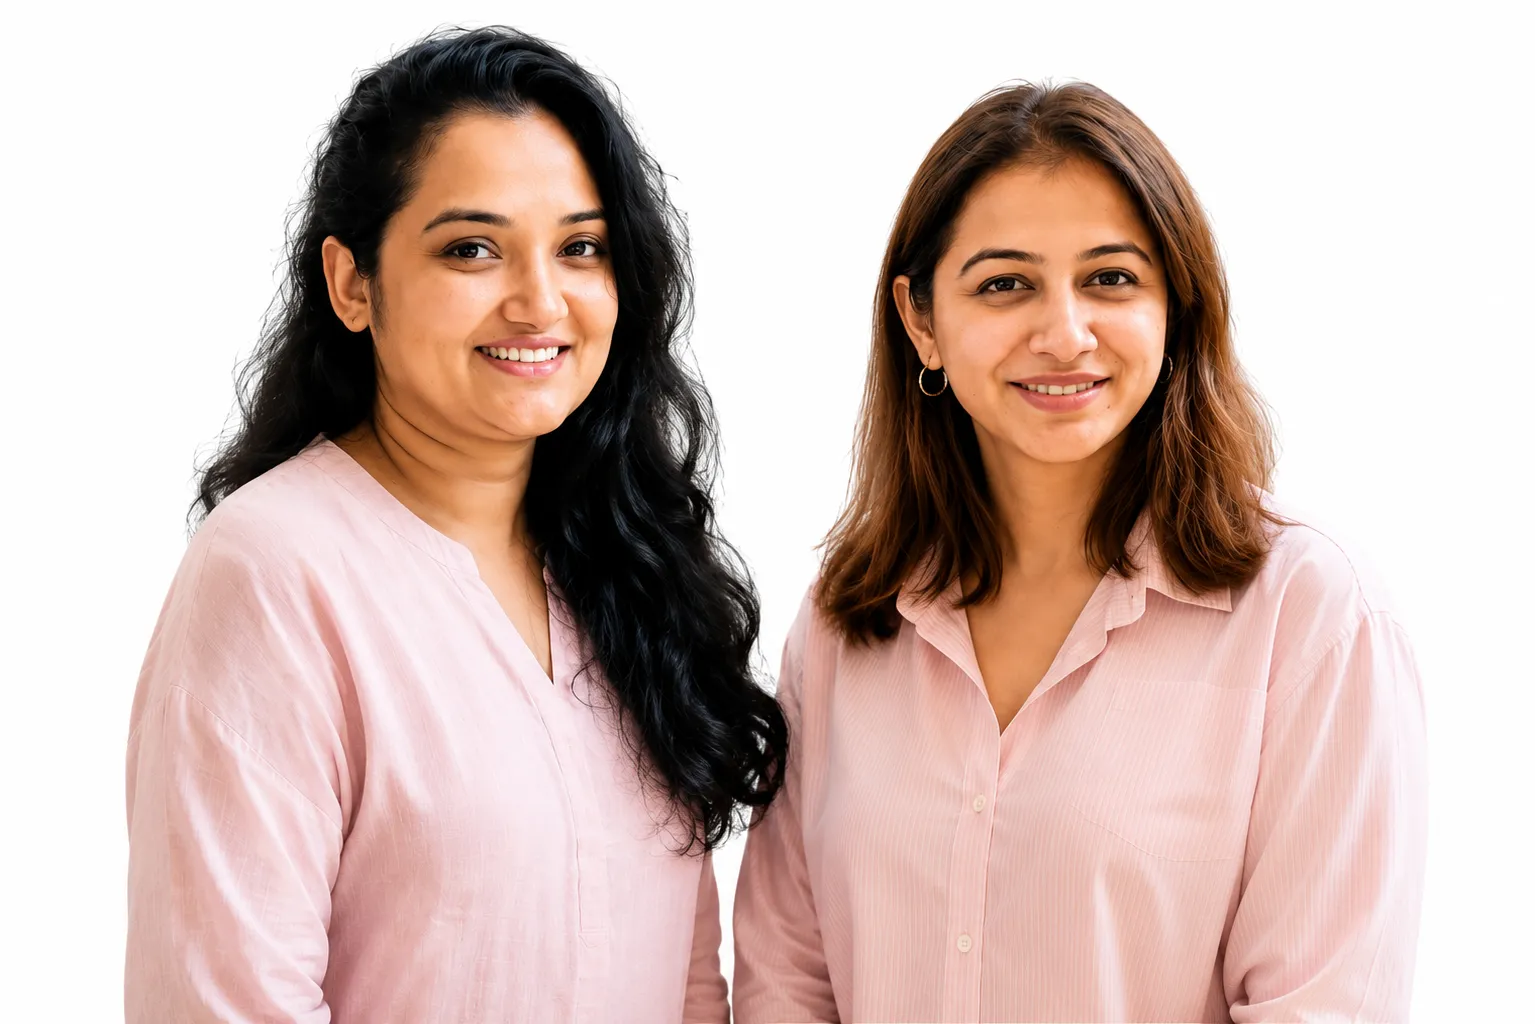
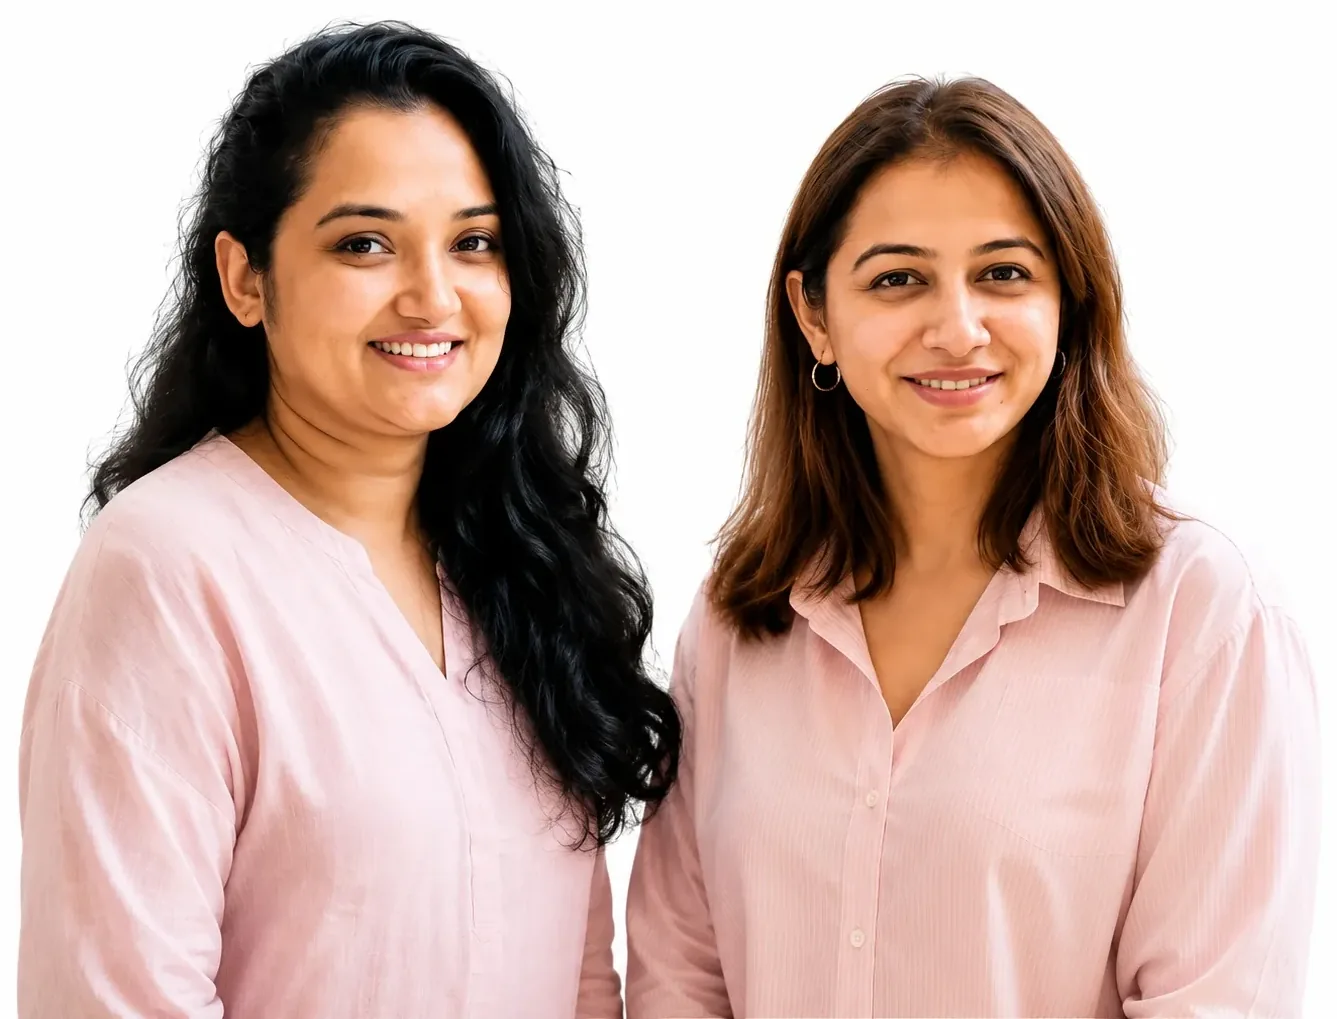
anu landing page fix

diff --git a/apps/landing/Anuva Wellness Landing.dc.html b/apps/landing/Anuva Wellness Landing.dc.html
@@ -24,14 +24,27 @@
   @keyframes floatSlow{0%,100%{transform:translateY(0)}50%{transform:translateY(-14px)}}
   @keyframes pulseGlow{0%,100%{opacity:.55}50%{opacity:.9}}
 
+  /* The hero photo is trimmed to its subjects (1337x1019), so fit="contain"
+     fills the column almost exactly while never cropping either woman. The
+     slot's frame carries a faint grey wash that the slim letterbox would
+     otherwise expose, so repaint it the white of the photo's backdrop. */
+  #hero-image::part(frame){background:#FFFFFF}
+
+  /* image-slot draws a dashed placeholder ring and hides it via
+     :host([data-filled]), but data-filled never lands on these slots even
+     though the photos load, so the ring ships as a visible dashed outline.
+     Both slots have an author src and are never empty, so drop it outright. */
+  #hero-image::part(ring),#meet-anuva-image::part(ring){display:none}
+
   /* Nav needs ~816px. Below 856px the last item was clipped inside an
      overflow-x:auto strip with the scrollbar hidden, so hand off to the
      hamburger at 900 instead of 760 (covers iPad Pro 11 portrait @834). */
   @media (max-width:900px){ .anuva-desktop-nav{display:none !important} .anuva-hamburger{display:flex !important} }
 
-  /* Hero row wraps at 920px (440 + 480 flex bases). The image column's only
-     child is absolutely positioned, so once wrapped it has no content height —
-     the override has to start at the wrap point, not at 900. */
+  /* The columns are flex-grow 42/58 on 0% bases, so they always fill the row
+     and it never wraps on its own - this query is what stacks it. The image
+     column's only child is absolutely positioned, so once stacked it has no
+     content height and needs the explicit height below. */
   @media (max-width:920px){
     .anuva-hero-row{min-height:auto !important}
     .anuva-hero-image-col{flex-basis:100% !important;height:320px !important}
@@ -98,7 +111,7 @@
         <a href="#pricing" style="color:#5B4E68" style-hover="color:#7C5FC0">Pricing</a>
         <a href="#faqs" style="color:#5B4E68" style-hover="color:#7C5FC0">FAQs</a>
       </nav>
-      <a href="#pricing" class="anuva-header-cta" style="flex:none;background:linear-gradient(135deg,#9B6FD6,#E39CC0);color:#fff;padding:11px 20px;border-radius:100px;font-weight:600;font-size:13.5px;white-space:nowrap;box-shadow:0 6px 16px rgba(155,111,214,0.35);transition:transform .2s,box-shadow .2s" style-hover="transform:translateY(-2px);box-shadow:0 10px 22px rgba(155,111,214,0.45)">Start Free Trial</a>
+      <a href="https://app.anuvawellness.com" class="anuva-header-cta" style="flex:none;background:linear-gradient(135deg,#9B6FD6,#E39CC0);color:#fff;padding:11px 20px;border-radius:100px;font-weight:600;font-size:13.5px;white-space:nowrap;box-shadow:0 6px 16px rgba(155,111,214,0.35);transition:transform .2s,box-shadow .2s" style-hover="transform:translateY(-2px);box-shadow:0 10px 22px rgba(155,111,214,0.45)">Start Free Trial</a>
       <button class="anuva-hamburger" onClick="{{ toggleMenu }}" aria-label="Navigation menu" aria-controls="anuva-mobile-nav" aria-expanded="{{ menuOpen }}" style="display:none;flex:none;background:none;border:none;font-size:24px;color:#5E3FA3;cursor:pointer;padding:2px 4px">☰</button>
     </div>
     <sc-if value="{{ menuOpen }}">
@@ -114,21 +127,21 @@
 
   <!-- ===== HERO ===== -->
   <section id="hero" style="position:relative;background:radial-gradient(120% 100% at 20% 0%,#F5E4F0 0%,#F9EEF7 35%,#FFFBFC 70%)">
-    <div class="anuva-hero-row" style="max-width:1440px;margin:0 auto;display:flex;flex-wrap:wrap-reverse;align-items:stretch;gap:0;min-height:640px">
-      <div style="flex: 1 1 440px; min-width: 280px; display: flex; flex-direction: column; justify-content: center; padding: 64px clamp(20px,5vw,80px); background-color: #FFFFFF">
+    <div class="anuva-hero-row" style="width:100%;margin:0;display:flex;flex-wrap:wrap-reverse;align-items:stretch;gap:0;min-height:640px">
+      <div style="flex: 42 1 0%; min-width: 280px; display: flex; flex-direction: column; justify-content: center; padding: 64px clamp(20px,3.5vw,64px); background-color: #FFFFFF">
         
         <h1 style="font-family:'Playfair Display',serif;font-weight:600;font-size:clamp(34px,5vw,58px);line-height:1.1;margin:0 0 22px;color:#2D2438"><span style="font-size:clamp(26px,4.2vw,50px)">Your Personalized</span> <span style="color: {{ accentColor }}; font-style: italic; font-family: Times New Roman; font-size:clamp(36.5px,5.2vw,60.5px)">Perimenopause Wellness</span> <span style="color: {{ accentColor }}; font-style: italic; font-family: Times New Roman; font-size:clamp(36.5px,5.2vw,60.5px)">Journey</span> <span style="font-size:clamp(26px,4.2vw,50px)">Starts Here</span></h1>
         <p style="font-size:clamp(16px,2vw,19px);line-height:1.6;color:#6B5D7A;max-width:520px;margin:0 0 32px">Expert care, personalized plans, and daily support to help you feel like yourself again.</p>
         <div style="display:flex;flex-wrap:wrap;gap:16px;align-items:center;margin-bottom:28px">
-          <a href="#pricing" class="anuva-hero-cta" style="background:linear-gradient(135deg,#9B6FD6,#E39CC0);color:#fff;padding:17px 34px;border-radius:100px;font-weight:700;font-size:16px;box-shadow:0 12px 28px rgba(155,111,214,0.4);transition:transform .2s,box-shadow .2s;display:inline-block" style-hover="transform:translateY(-3px) scale(1.02);box-shadow:0 18px 36px rgba(155,111,214,0.5)">Start Your 14-Day Free Trial →</a>
+          <a href="https://app.anuvawellness.com" class="anuva-hero-cta" style="background:linear-gradient(135deg,#9B6FD6,#E39CC0);color:#fff;padding:17px 34px;border-radius:100px;font-weight:700;font-size:16px;box-shadow:0 12px 28px rgba(155,111,214,0.4);transition:transform .2s,box-shadow .2s;display:inline-block" style-hover="transform:translateY(-3px) scale(1.02);box-shadow:0 18px 36px rgba(155,111,214,0.5)">Start Your 14-Day Free Trial →</a>
         </div>
         <div style="display:flex;align-items:center;gap:10px;font-size:14px;color:#6B5D7A;font-weight:500">
           <span role="img" aria-label="Rated 5 out of 5" style="color:#E3A6C4;font-size:16px">★★★★★</span>
           <span>Trusted by 2,000+ women · Science-backed</span>
         </div>
       </div>
-      <div class="anuva-hero-image-col" style="flex:1 1 480px;min-width:300px;position:relative">
-        <image-slot id="hero-image" style="position: absolute; inset: 0; width: 100%; height: 100%; background-color: #FFFFFF" fit="cover" placeholder="Drop a photo of a woman feeling confident and calm" src="uploads/hero-woman.webp"></image-slot>
+      <div class="anuva-hero-image-col" style="flex:58 1 0%;min-width:300px;position:relative">
+        <image-slot id="hero-image" style="position: absolute; inset: 0; width: 100%; height: 100%; background-color: #FFFFFF" shape="rounded" radius="0" fit="contain" placeholder="Drop a photo of a woman feeling confident and calm" src="uploads/hero-woman.webp"></image-slot>
       </div>
     </div>
   </section>
@@ -362,7 +375,7 @@
           <div style="display:flex;gap:10px;align-items:flex-start;font-size:14.5px;color:#4A3E56"><span aria-hidden="true" style="color:#9B6FD6;font-weight:700">✓</span>Expert-backed care plan &amp; AI support</div>
           <div style="display:flex;gap:10px;align-items:flex-start;font-size:14.5px;color:#4A3E56"><span aria-hidden="true" style="color:#9B6FD6;font-weight:700">✓</span>3 FREE consultations (Worth over ₹5,000)</div>
         </div>
-        <a href="#" style="display:block;background:linear-gradient(135deg,#9B6FD6,#E39CC0);color:#fff;padding:17px;border-radius:100px;font-weight:700;font-size:16px;box-shadow:0 12px 28px rgba(155,111,214,0.4);transition:transform .2s,box-shadow .2s" style-hover="transform:translateY(-3px) scale(1.02);box-shadow:0 18px 36px rgba(155,111,214,0.5)">Start Your 14-Day Free Trial</a>
+        <a href="https://app.anuvawellness.com" style="display:block;background:linear-gradient(135deg,#9B6FD6,#E39CC0);color:#fff;padding:17px;border-radius:100px;font-weight:700;font-size:16px;box-shadow:0 12px 28px rgba(155,111,214,0.4);transition:transform .2s,box-shadow .2s" style-hover="transform:translateY(-3px) scale(1.02);box-shadow:0 18px 36px rgba(155,111,214,0.5)">Start Your 14-Day Free Trial</a>
       </div>
     </div>
   </section>
@@ -395,7 +408,7 @@
     <div style="max-width:640px;margin:0 auto">
       <h2 style="font-family:'Playfair Display',serif;font-weight:600;font-size:clamp(28px,5vw,46px);line-height:1.15;margin:0 0 20px;color:#2D2438">Ready to Take Control of Your Perimenopause Journey?</h2>
       <p style="font-size:17px;color:#5B4E68;margin:0 0 36px">Join thousands of women who've found clarity, relief, and confidence with ANUVA WELLNESS.</p>
-      <a href="#pricing" style="display:inline-block;background:#2D2438;color:#fff;padding:19px 40px;border-radius:100px;font-weight:700;font-size:17px;box-shadow:0 16px 36px rgba(45,36,56,0.25);transition:transform .2s,box-shadow .2s" style-hover="transform:translateY(-3px) scale(1.02);box-shadow:0 22px 44px rgba(45,36,56,0.35)">Start Your 14-Day Free Trial →</a>
+      <a href="https://app.anuvawellness.com" style="display:inline-block;background:#2D2438;color:#fff;padding:19px 40px;border-radius:100px;font-weight:700;font-size:17px;box-shadow:0 16px 36px rgba(45,36,56,0.25);transition:transform .2s,box-shadow .2s" style-hover="transform:translateY(-3px) scale(1.02);box-shadow:0 22px 44px rgba(45,36,56,0.35)">Start Your 14-Day Free Trial →</a>
     </div>
   </section>
 

diff --git a/apps/pwa/src/features/core/AnuChatRoute.tsx b/apps/pwa/src/features/core/AnuChatRoute.tsx
@@ -3,6 +3,7 @@ import { useNavigate, useSearchParams } from 'react-router-dom';
 import type { AnuChatHistoryResponse, AnuChatResponse } from '@anuva/shared';
 import { apiFetch } from '../../shared/lib/api';
 import { BottomNav } from './components/BottomNav';
+import { remainingDelay, replyDelay, wait } from './chatPacing';
 
 type ChatMessage = {
   from: 'anu' | 'user';
@@ -72,17 +73,28 @@ export default function AnuChatRoute() {
       // Clear immediately: the old chips belong to the previous answer.
       setSuggestions([]);
 
+      // Paced, not padded — see `chatPacing`. Measured from the moment she
+      // sends rather than from the response, so a slow answer is never made
+      // slower.
+      const startedAt = Date.now();
+      const delay = replyDelay();
+
       try {
         const data = await apiFetch<AnuChatResponse>('/api/anu/chat', {
           method: 'POST',
           body: JSON.stringify({ message: trimmed }),
         });
+
+        await wait(remainingDelay(delay, Date.now() - startedAt));
+
         setMessages((prev) => [
           ...prev,
           { from: 'anu', text: data.reply, isEscalation: data.source === 'red_flag' },
         ]);
         setSuggestions(data.suggestions);
       } catch {
+        // Not paced. A failure is the app speaking, not ANU, and holding it
+        // behind a typing bubble only delays the retry.
         setError('ANU could not reply just now. Please try again.');
       } finally {
         setSending(false);
